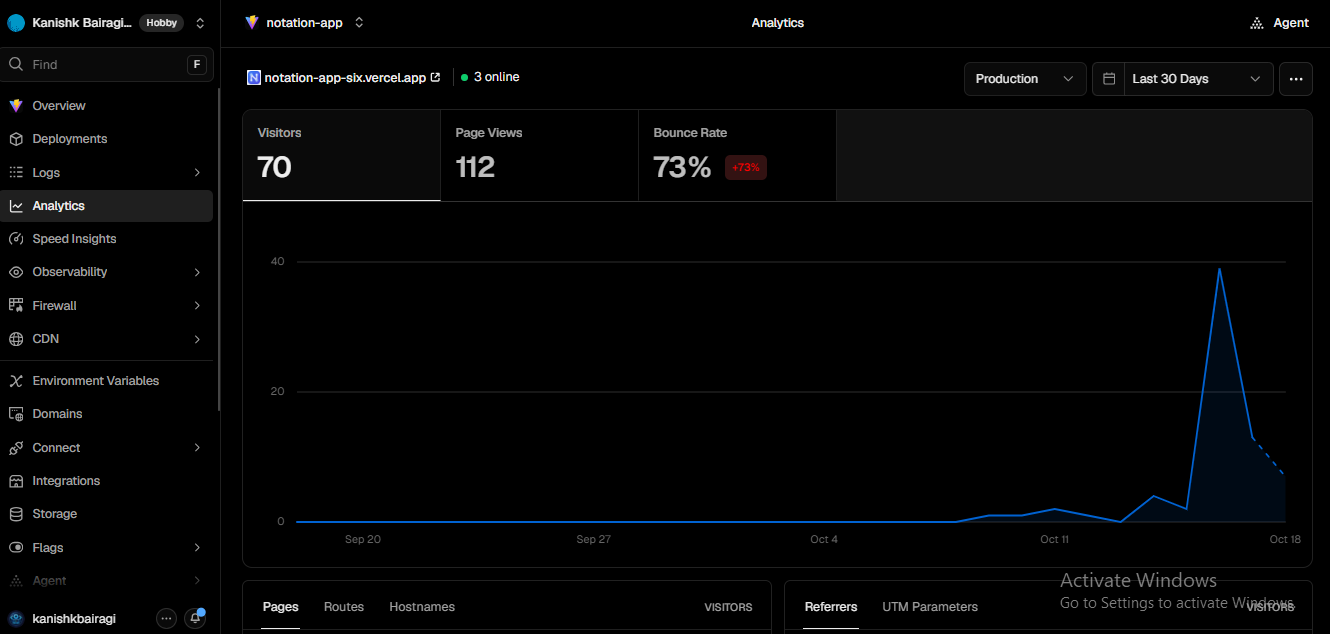
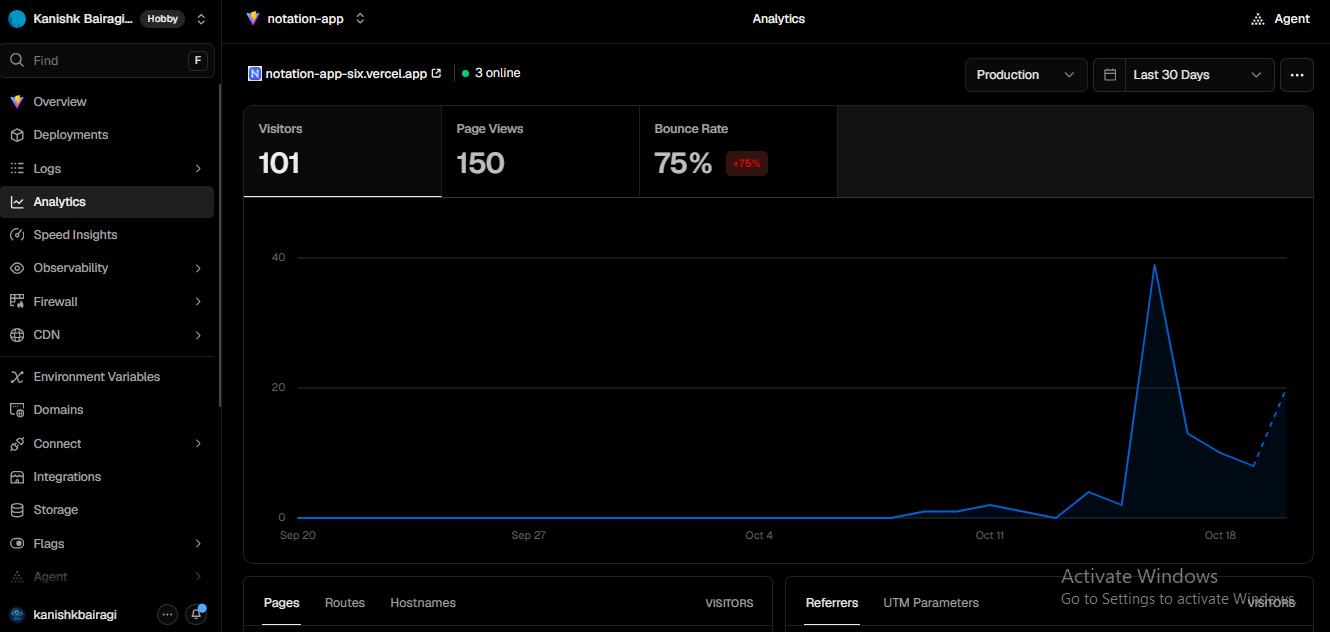
Added

diff --git a/src/data/projects.js b/src/data/projects.js
@@ -155,18 +155,18 @@ export const projects = [
         demo: "https://notation-app-six.vercel.app/",
         image: notationsImg,
         metaBadges: [
-            "70+ Verified Users (7 Countries)",
+            "100+ Verified Users (150+ Views)",
             "BM25 Sub-2ms Queries",
             "Vercel Telemetry"
         ],
-        description: "A graph-based knowledge base that combines an interactive force-directed graph with an Okapi BM25 search engine. Simulates graph layout using Coulomb repulsion and Hooke spring physics on HTML5 Canvas at 60 FPS. Features sub-2ms search queries powered by an inverted index and prefix Trie, along with BFS shortest-path traversal between connected notes. Evaluated by 70+ users across 7 countries.",
-        overviewDescription: "A graph-based knowledge base combining an interactive force-directed graph with an Okapi BM25 search engine. Simulates graph layout using Coulomb repulsion and Hooke spring physics on HTML5 Canvas at 60 FPS with sub-2ms queries. Validated by 70+ global users across 7 countries.",
+        description: "A graph-based knowledge base that combines an interactive force-directed graph with an Okapi BM25 search engine. Simulates graph layout using Coulomb repulsion and Hooke spring physics on HTML5 Canvas at 60 FPS. Features sub-2ms search queries powered by an inverted index and prefix Trie, along with BFS shortest-path traversal between connected notes. Evaluated by 100+ international users with 150+ interaction sessions across 8 countries.",
+        overviewDescription: "A graph-based knowledge base combining an interactive force-directed graph with an Okapi BM25 search engine. Simulates graph layout using Coulomb repulsion and Hooke spring physics on HTML5 Canvas at 60 FPS with sub-2ms queries. Validated by 100+ global users with 150+ interaction sessions across 8 countries.",
         highlights: [
             "Force-Directed Physics on HTML5 Canvas: Coulomb repulsion, Hooke spring attraction & damping velocity relaxation at 60 FPS",
             "Okapi BM25 Probabilistic Ranking: Calibrated term saturation (k1=1.2) and document length normalization (b=0.75)",
             "Inverted Index & Prefix Trie: In-memory postings list Map<Term, PostingsList> with sub-2ms O(L) prefix autocomplete",
             "Graph Theory Analytics: Degree Centrality CD(v) = deg(v)/(|V|-1) and BFS Shortest Path traversal in O(|V| + |E|)",
-            "AST-Driven Knowledge Graph: Bidirectional [[WikiLink]] parsing into an adjacency list with backlinks drawer; verified by 70+ students across 7 countries with 75% mobile usage."
+            "AST-Driven Knowledge Graph: Bidirectional [[WikiLink]] parsing into an adjacency list with backlinks drawer; verified by 100+ users with 150+ graph interaction sessions across 8 countries."
         ],
         metrics: [
             { label: "Graph Engine", value: "Force-Directed G=(V,E)" },
@@ -186,30 +186,30 @@ export const projects = [
         extraSkillsCount: 3,
         telemetry: {
             title: "Production Telemetry & Real-World Adoption",
-            badgeText: "70+ Students Across 7 Countries",
+            badgeText: "100+ Users • 150+ Page Views",
             description: "Empirical telemetry collected from Vercel analytics demonstrating multi-region usage and engagement.",
             stats: [
-                { label: "Verified Users", value: "70+ Students", sub: "Production Users" },
-                { label: "Interaction Sessions", value: "112+ Page Views", sub: "Graph Explorations" },
-                { label: "Global Reach", value: "7 Countries", sub: "India, US, EU, BR" },
+                { label: "Verified Users", value: "100+ Users", sub: "Production Traffic" },
+                { label: "Interaction Sessions", value: "150+ Page Views", sub: "Graph Explorations" },
+                { label: "Global Reach", value: "8 Countries", sub: "India, US, EU, BR" },
                 { label: "Mobile Responsiveness", value: "75% Mobile", sub: "Cross-Platform" }
             ],
             screenshots: [
                 {
                     id: 1,
                     title: "Live Telemetry",
-                    metricBadge: "70+ Unique Students • 112+ Page Views",
-                    metricBadgeMobile: "70+ Students • 112+ Views",
+                    metricBadge: "101 Users • 150 Page Views",
+                    metricBadgeMobile: "100+ Users • 150+ Views",
                     image: note1Img,
-                    caption: "Live Traffic Telemetry: 70+ verified unique students and 112+ knowledge graph interaction sessions."
+                    caption: "Live Traffic Telemetry: 100+ verified unique users and 150+ knowledge graph interaction sessions recorded on Vercel Analytics."
                 },
                 {
                     id: 2,
                     title: "Global Reach",
-                    metricBadge: "7 Countries • 75% Mobile Responsiveness",
-                    metricBadgeMobile: "7 Countries • 75% Mobile",
+                    metricBadge: "8 Countries • 75% Mobile Responsiveness",
+                    metricBadgeMobile: "8 Countries • 75% Mobile",
                     image: note2Img,
-                    caption: "Global Demographics: Multi-region adoption across 7 countries (India: 42, USA: 4, Brazil, Germany, Spain, France, Greece, Sweden) with 75% mobile & 25% desktop usage."
+                    caption: "Global Demographics: Multi-region adoption across 8 countries (India: 42, USA: 4, Brazil, Germany, Spain, France, Greece, Sweden) with 75% mobile & 25% desktop usage."
                 }
             ]
         },
@@ -266,7 +266,7 @@ export const projects = [
                 { metric: "Prefix Lookup", value: "O(L)", benchmark: "Trie Stem Autocomplete", status: "Optimal" },
                 { metric: "Graph Simulation", value: "60 FPS", benchmark: "Damped Euler Numerical Solver", status: "Optimal" },
                 { metric: "Centrality Metric", value: "Degree CD(v)", benchmark: "Hub Node Identification", status: "Optimal" },
-                { metric: "GLOBAL ADOPTION", value: "70+ Verified Users", benchmark: "7 Countries • Vercel Telemetry", status: "Telemetry" }
+                { metric: "GLOBAL ADOPTION", value: "100+ Verified Users", benchmark: "150+ Views • Vercel Telemetry", status: "Telemetry" }
             ]
         }
     },

diff --git a/README.md b/README.md
@@ -47,8 +47,8 @@ Beyond conventional portfolio websites, this platform functions as an **interact
 | Project | Domain & Role | Core Architecture & Algorithmic Rigor | Key Metrics & Invariants | Links |
 | :--- | :--- | :--- | :--- | :--- |
 | **[Jawam Infotech Official Platform](https://jawaminfotech.com/)** | Enterprise Full-Stack & Frontend Intern (2026) | 46-route React SPA with route-level dynamic code splitting (`React.lazy` / `Suspense`), chunked streaming AI response handling, and automated WebP/AVIF media compression. | **Lighthouse 96+**<br>FCP: 1.05s, LCP: 1.78s<br>Media payload: **-72%** (45MB → 8.2MB) | [Live Demo](https://jawaminfotech.com/) • [GitHub](https://github.com/kanishkbairagi/Jawam-project.git) |
-| **[Algorithmic State Engine & Visualizer](https://data-structure-visualizerr.vercel.app)** | Algorithm & Systems Engineering (2025) | Interactive state engine animating AVL tree rotations across 4 archetypes (LL, RR, LR, RL), Dijkstra shortest-path relaxation, and contiguous dynamic array buffer doubling. | **151+ Verified Visitors** (9 Countries)<br>AVL Search: $O(\log N)$<br>Dijkstra: $O((V+E)\log V)$<br>Append: Amortized $O(1)$ | [Live Demo](https://data-structure-visualizerr.vercel.app) • [GitHub](https://github.com/kanishkbairagi/data-structure-visualizerr) |
-| **[Topological Knowledge Graph & IR Engine](https://notation-app-six.vercel.app/)** | Systems & Information Retrieval (2025) | HTML5 Canvas $n$-body force-directed physics engine (Coulomb repulsion & Hooke spring relaxation), Okapi BM25 statistical ranking, prefix Trie autocomplete, and BFS pathfinding. | **70+ Verified Users** (7 Countries)<br>Query Latency: **< 1.8ms**<br>Physics: **60 FPS**<br>BFS: $O(\|V\| + \|E\|)$<br>Prefix: $O(L)$ | [Live Demo](https://notation-app-six.vercel.app/) • [GitHub](https://github.com/kanishkbairagi/notation-app.git) |
+| **[Algorithmic State Engine & Visualizer](https://data-structure-visualizerr.vercel.app)** | Algorithm & Systems Engineering (2025) | Interactive state engine animating AVL tree rotations across 4 archetypes (LL, RR, LR, RL), Dijkstra shortest-path relaxation, and contiguous dynamic array buffer doubling. | **151+ Verified Users** (9 Countries)<br>AVL Search: $O(\log N)$<br>Dijkstra: $O((V+E)\log V)$<br>Append: Amortized $O(1)$ | [Live Demo](https://data-structure-visualizerr.vercel.app) • [GitHub](https://github.com/kanishkbairagi/data-structure-visualizerr) |
+| **[Topological Knowledge Graph & IR Engine](https://notation-app-six.vercel.app/)** | Systems & Information Retrieval (2025) | HTML5 Canvas $n$-body force-directed physics engine (Coulomb repulsion & Hooke spring relaxation), Okapi BM25 statistical ranking, prefix Trie autocomplete, and BFS pathfinding. | **100+ Verified Users** (150+ Views)<br>Query Latency: **< 1.8ms**<br>Physics: **60 FPS**<br>BFS: $O(\|V\| + \|E\|)$<br>Prefix: $O(L)$ | [Live Demo](https://notation-app-six.vercel.app/) • [GitHub](https://github.com/kanishkbairagi/notation-app.git) |
 | **[Visual Habit Graph (VHG)](https://visual-habit-graph.vercel.app/)** | Full-Stack & Systems (2025) | Directed Acyclic Graph (DAG) dependency engine with 3-color DFS cycle rejection in $O(\|V\| + \|E\|)$, Kahn’s topological sort, and Critical Path Method (CPM) dynamic programming. | Cycle Reject: $O(\|V\| + \|E\|)$<br>Topological Sort: $O(\|V\| + \|E\|)$<br>CPM Slack: $0$ critical path | [Live Demo](https://visual-habit-graph.vercel.app/) • [GitHub](https://github.com/kanishkbairagi/visual-habit-graph.git) |
 | **[Emoji Mood Diary](https://emoji-based-mood-diary-with-color-a.vercel.app/)** | Interactive Web Apps (2025) | Responsive mood journal with color-adaptive theme switching, Framer Motion micro-animations, and client-side persistence. | Instantaneous transitions<br>Responsive UI states | [Live Demo](https://emoji-based-mood-diary-with-color-a.vercel.app/) • [GitHub](https://github.com/kanishkbairagi/emoji-based-mood-diary-with-color-adaptive-themes.git) |
 
